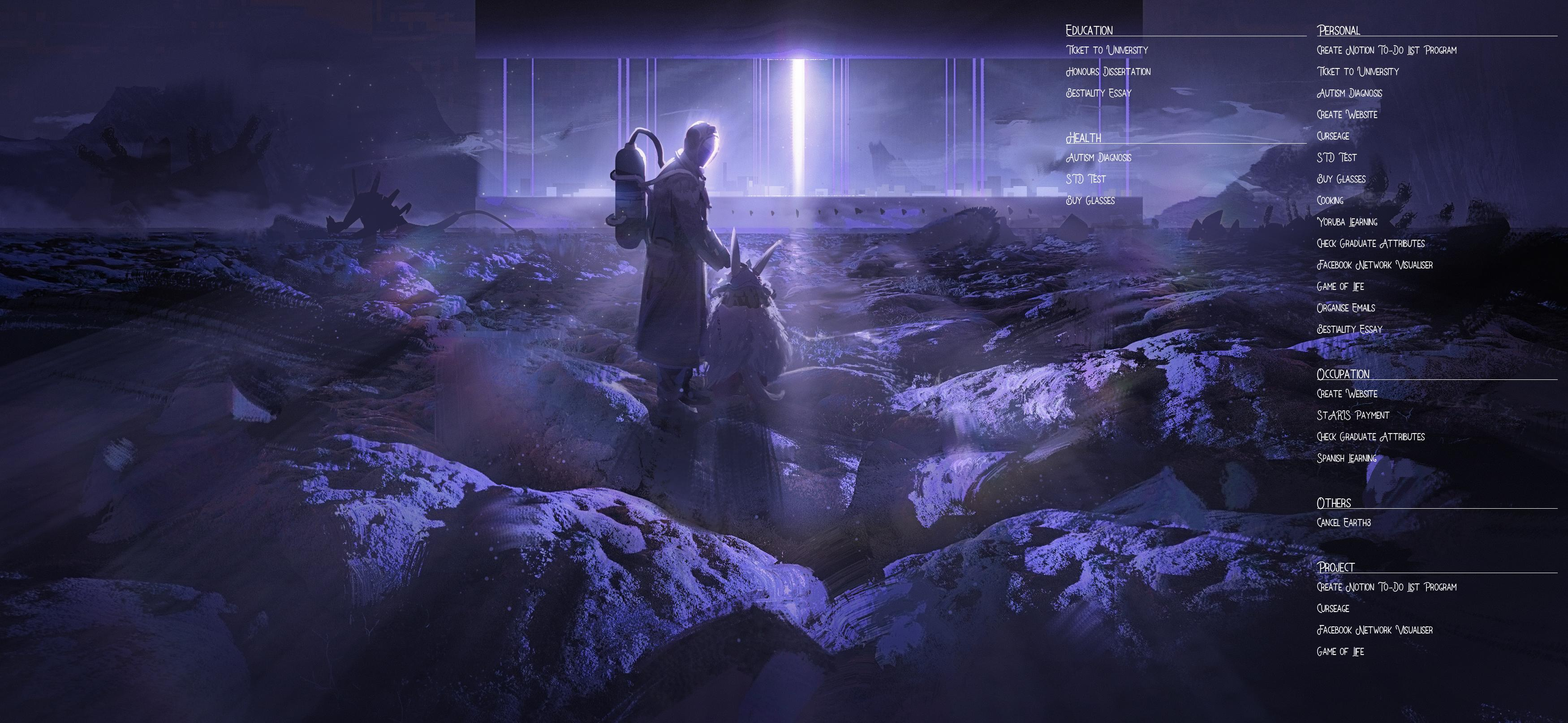
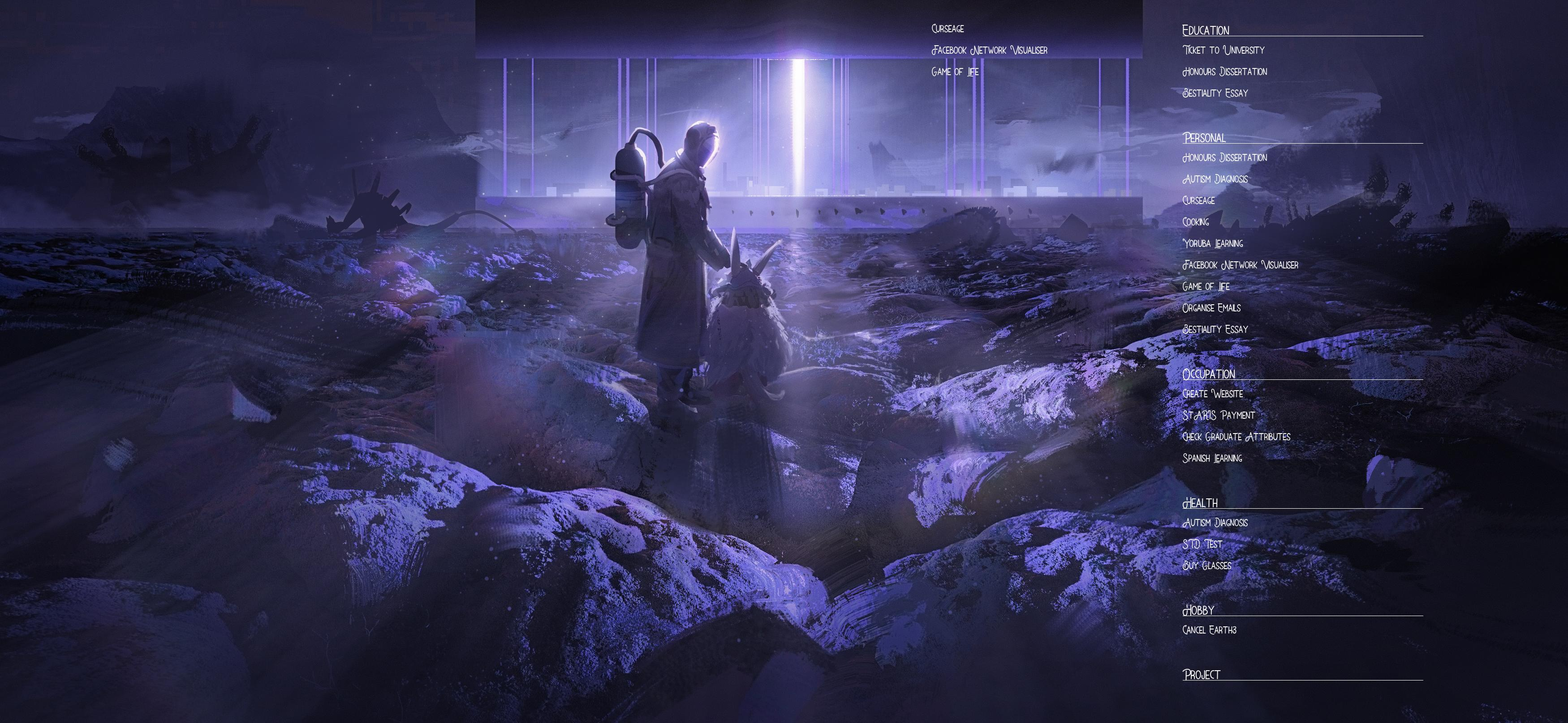
Add automation scripts

diff --git a/index.js b/index.js
@@ -7,13 +7,6 @@ async function update() {
     return result
 }
 
-function objToString (obj) {
-    let str = '';
-    for (const [p, val] of Object.entries(obj)) {
-        str += `${p}::${val}\n`;
-    }
-    return str;
-}
 let result = await update()
 console.clear();
 let output = JSON.stringify(result);

diff --git a/notion.js b/notion.js
@@ -6,9 +6,9 @@ export async function getTodoTasks() {
   
     // Dictionary for storing to-do information
     const data = {
+        "Education": [],
         "Personal": [],
         "Occupation": [],
-        "Others": []
     };
 
     // Query the database

diff --git a/main.py b/main.py
@@ -29,7 +29,8 @@ def main(data):
             yPos -= height
             yPos += SPACING
 
-        xPos = width - (LIST_WIDTH * (q + 1))
+        # Move 300 pixels away from the edge
+        xPos = width - (LIST_WIDTH * (q + 1)) - 300
         return (xPos, yPos)
 
     def create(key, tasks, index):
@@ -55,7 +56,7 @@ def main(data):
         index = create(key, tasks, index + 1)
 
     # Display edited image on which we have added the text
-    image.show()
+    #image.show()
 
     # Step 3. Update Sticky Notes Wallpaper
     image.save("wallpaper.jpg")

diff --git a/README.md b/README.md
@@ -5,4 +5,6 @@ Populate your desktop wallpaper with your to-do list in Notion automatically usi
 - Create a `.env` file and define `NOTION_KEY` and `NOTION_DATABASE_ID` variables, according to the [Notion Integration Guide](https://developers.notion.com/docs/create-a-notion-integration).
 - Install necessary node modules with `npm install`.
 - Add a `template.jpg` inside the `assets`` folder to use as a template wallpaper.
-- Start by running `npm run start-windows` or `npm run start-linux`.
+- Run the `update.sh` shell script.
+- Run the `update.ps` powershell script.
+- Automate the last two steps using your local task scheduler (like `taskschd.msc`).
